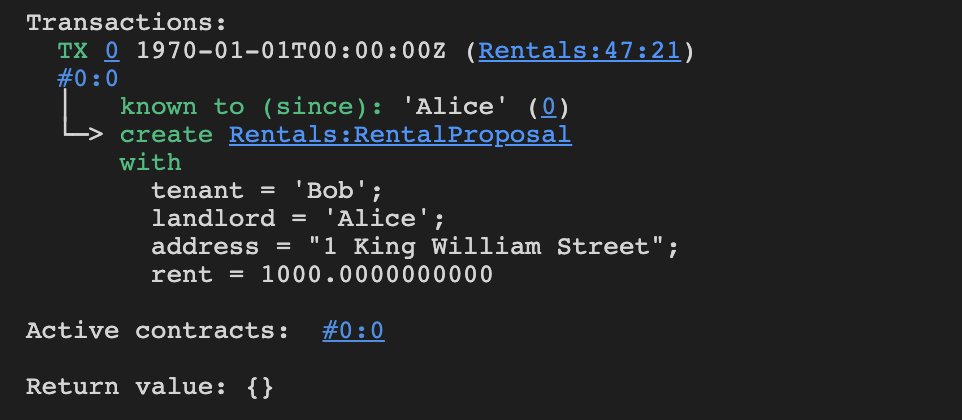
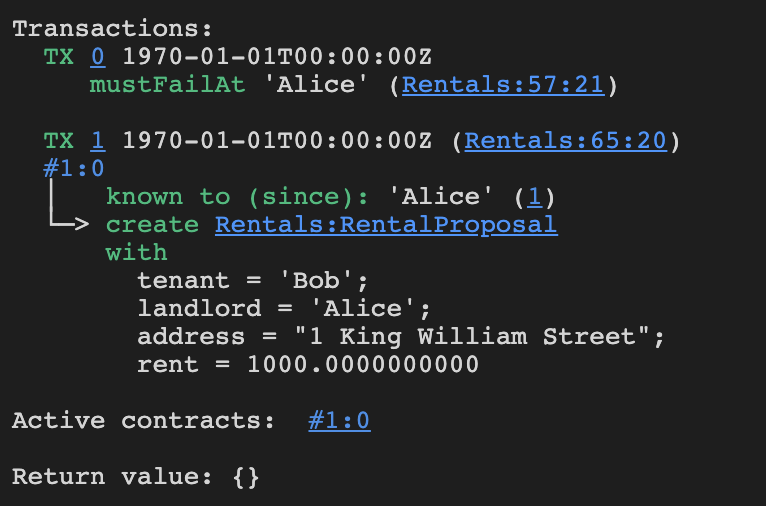
added more steps with the code snippets and screenshots of results

Changed region(s): [[0.0, 0.031, 0.9008, 0.8667], [0.0, 0.8976, 0.3603, 0.9595], [0.1802, 0.7119, 0.3003, 0.7429]]

diff --git a/dojos/dojo101/2_consent.md b/dojos/dojo101/2_consent.md
@@ -38,7 +38,11 @@ The `submit` keyword allows a party to submit a transaction to the ledger.
   return ()
 </pre>
 
-Did you notice the popped up `Scenario results`? The transaction failed!! :-(
+Did you notice the popped up `Scenario results`? If you click on the `Scenario results` pop-up over your `test` scenario, the IDE will split and you will see something like:
+![Initialfailure](/vivek-da/courses/dojos/dojo101/assets/initialfailure.png)
+
+
+#The transaction failed!! :-(#
 
 ### Somewhere, something went wrong!! 
 
@@ -47,5 +51,6 @@ The reason it failed, as per the error, `Bob` never gave his consent to this agr
 If a single statement in a scenario fails, the whole scenario fails at that point. To test failure of more than one submission in a single scenario, we need a different keyword `submitMustFail`, which succeeds when the submitted transaction fails. `Alice` and `Bob` cannot create `RentAgreement` unilaterally, as neither has the authority to put the other's signature on the `RentAgreement`.
 
 ## Task 3
-Now, change the `submit alice` to `submitMustFail alice` 
+Now, change the `submit alice` to `submitMustFail alice` and check the results. 
+![SubmitMustFail](/vivek-da/courses/dojos/dojo101/assets/SubmitMustFail.png)
 
